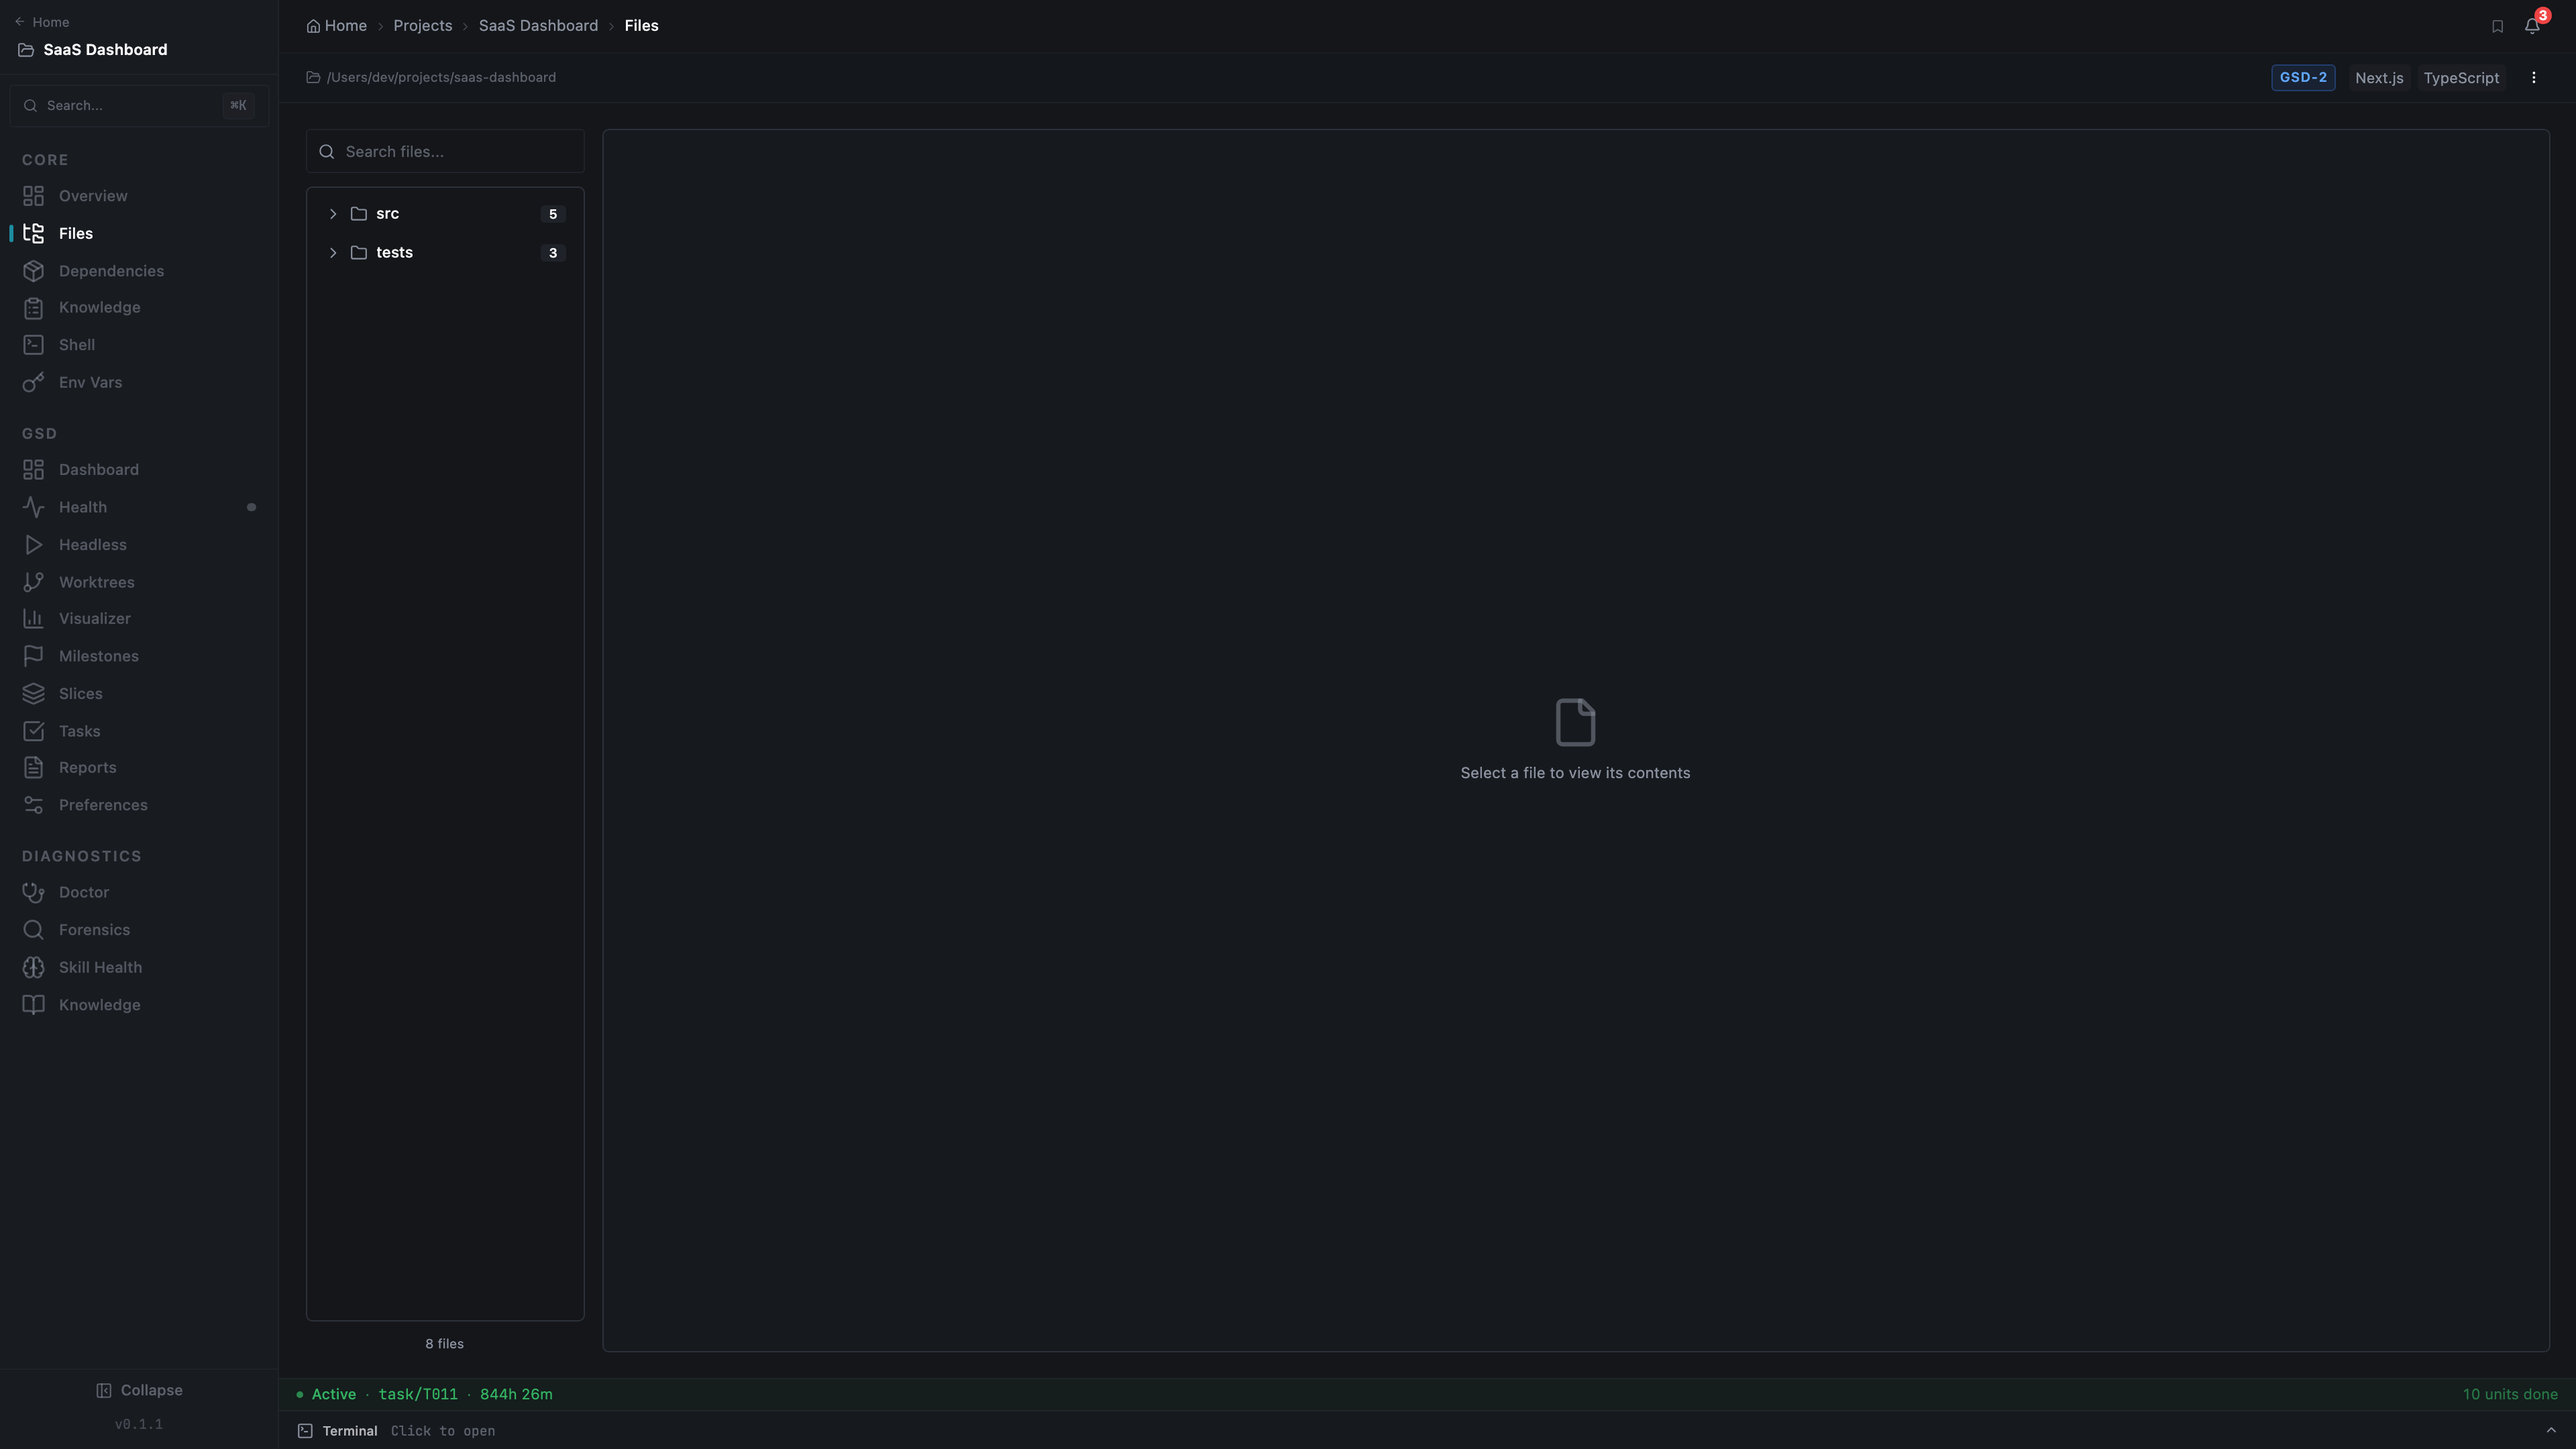
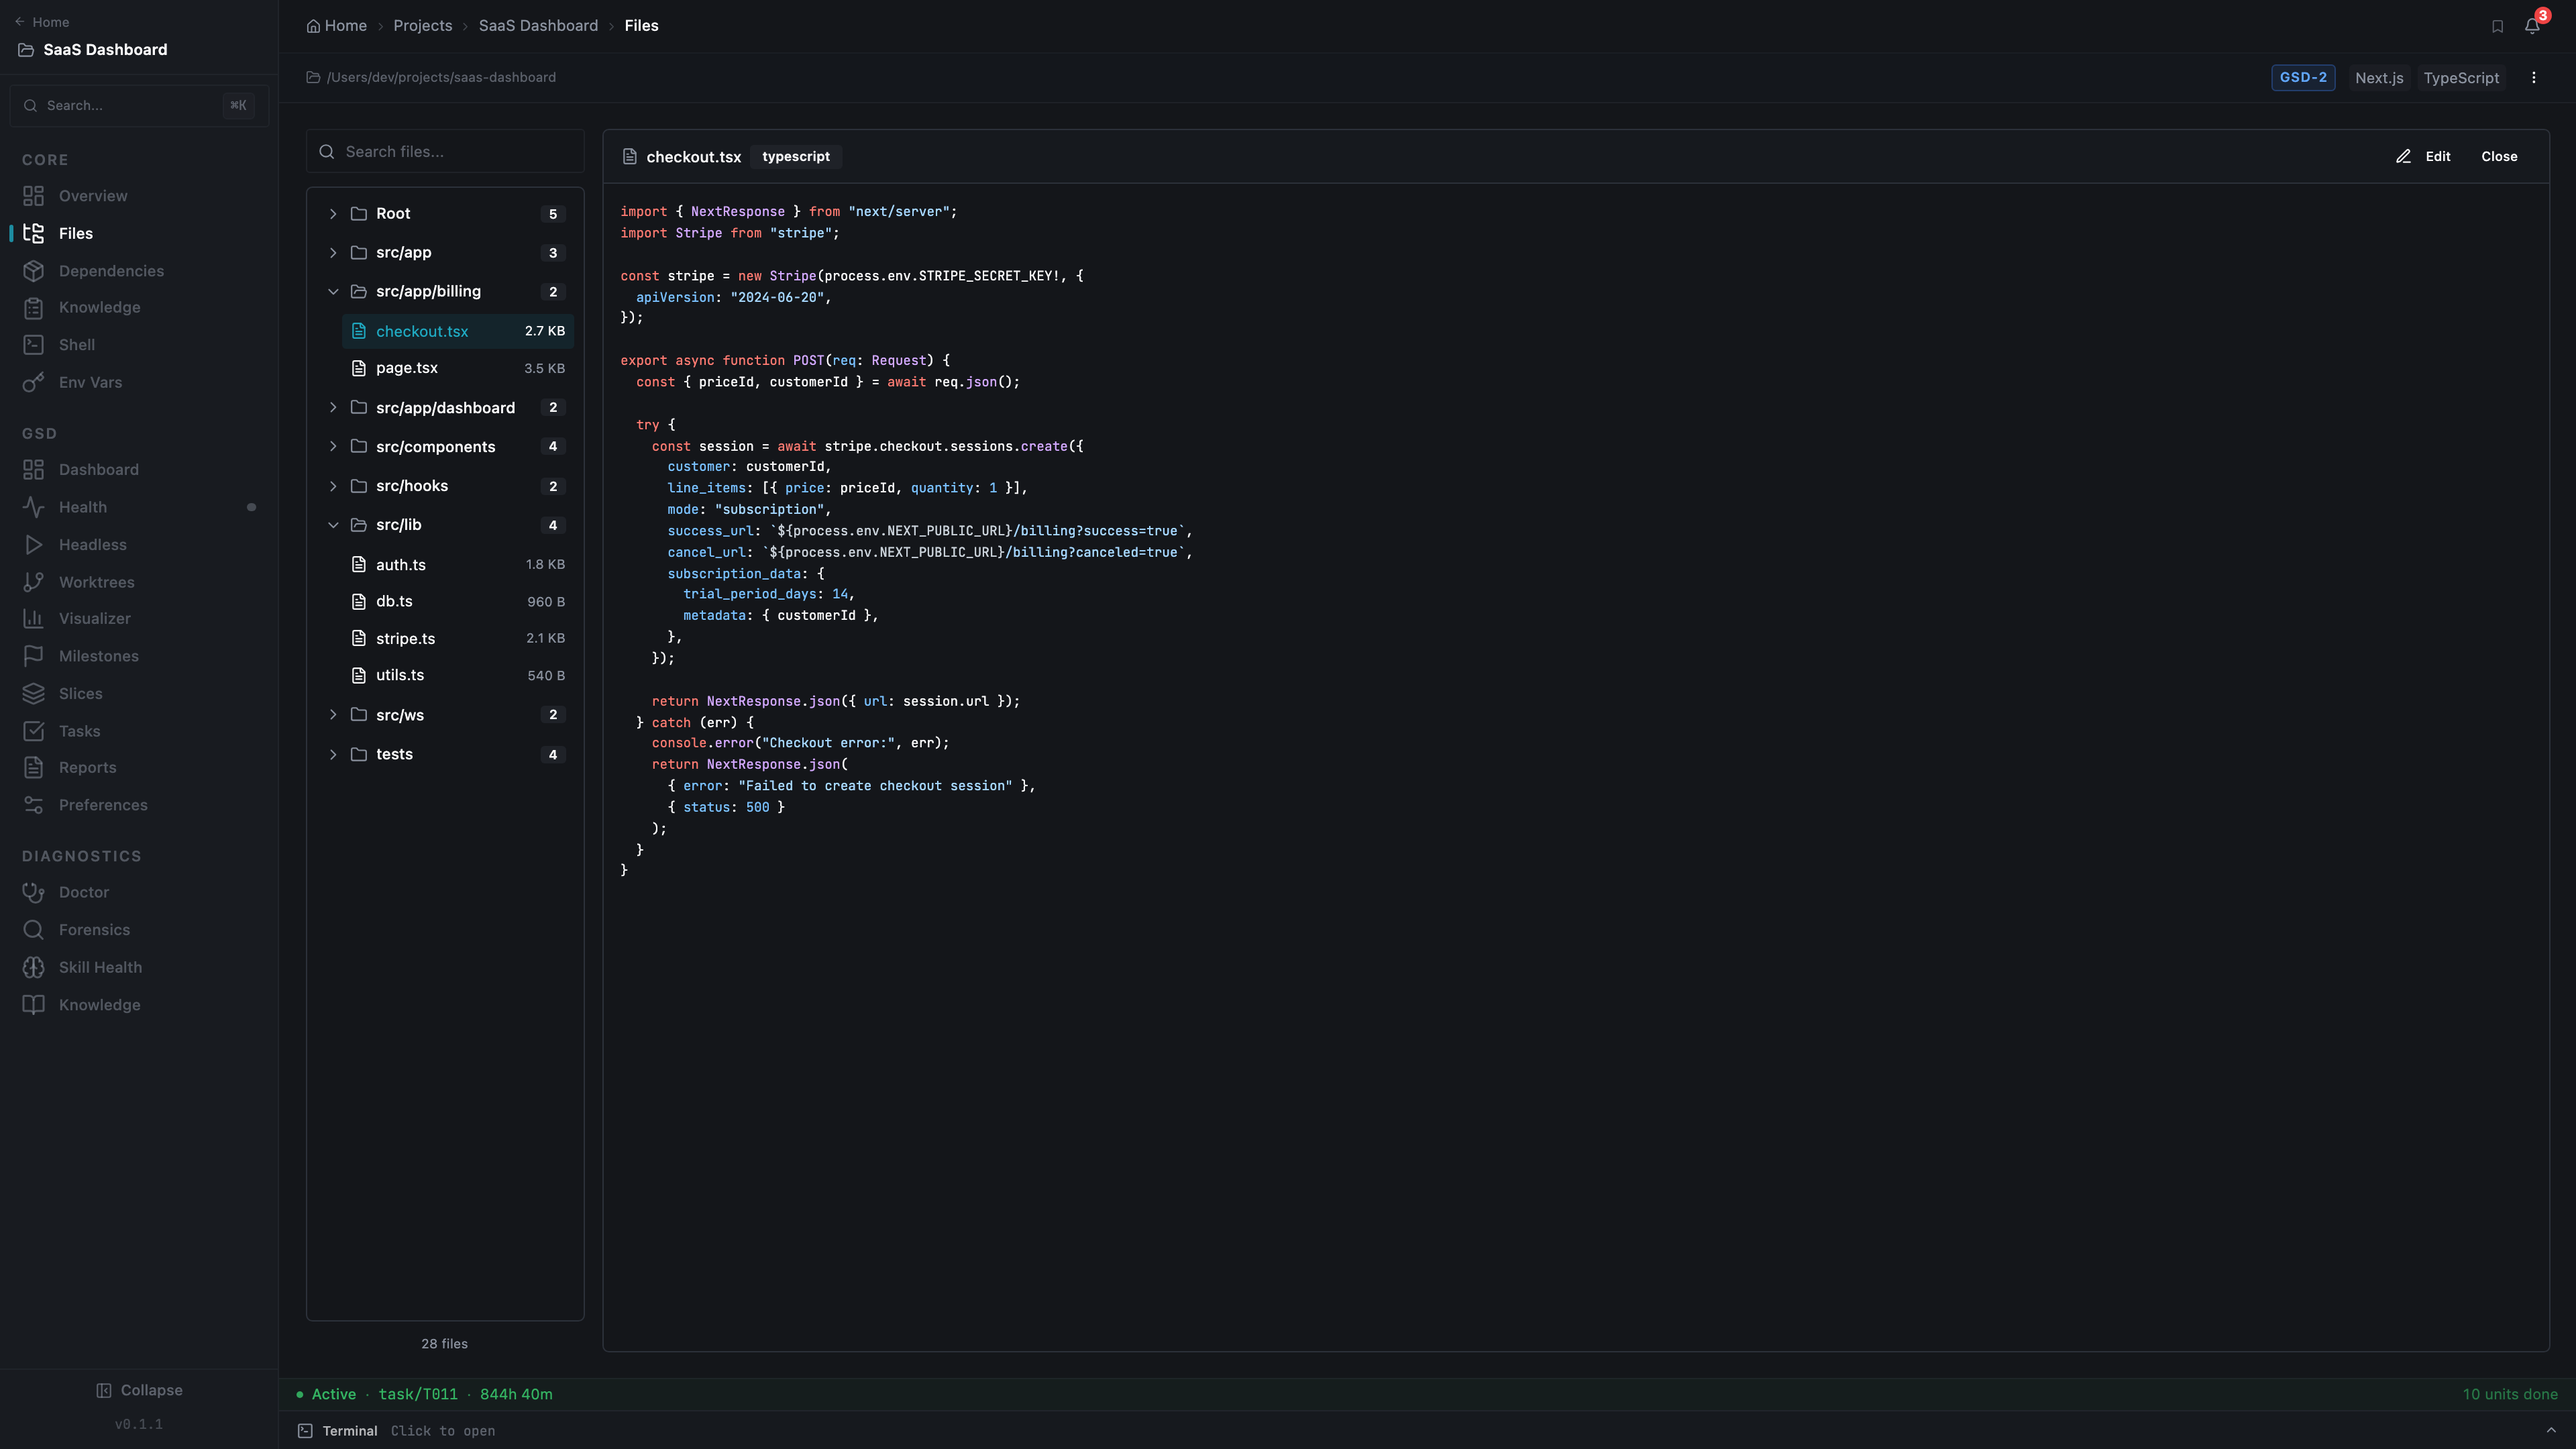
Update settings/file browser screenshots and footer
- File browser: 28 files across 9 folders, checkout.tsx open in syntax-highlighted editor
- Settings: richer defaults with tmux enabled, secrets manager with 3 stored keys
- Footer: remove Flux Labs/copyright, add "Proudly Built with GSD" card linking to gsd.build

diff --git a/e2e/screenshots.spec.ts b/e2e/screenshots.spec.ts
@@ -169,13 +169,13 @@ const MOCK_PROJECTS_WITH_STATS = MOCK_PROJECTS.map((p, i) => ({
 
 const MOCK_SETTINGS = {
   theme: 'dark',
-  start_on_login: false,
-  default_cost_limit: 50.0,
+  start_on_login: true,
+  default_cost_limit: 75.0,
   notifications_enabled: true,
   notify_on_complete: true,
   notify_on_error: true,
-  notify_cost_threshold: 25.0,
-  accent_color: 'blue',
+  notify_cost_threshold: 50.0,
+  accent_color: 'cyan',
   ui_density: 'comfortable',
   font_size_scale: 'medium',
   font_family: 'system',
@@ -184,7 +184,7 @@ const MOCK_SETTINGS = {
   notify_on_phase_complete: true,
   notify_on_cost_warning: true,
   debug_logging: false,
-  use_tmux: false,
+  use_tmux: true,
 };
 
 const MOCK_NOTIFICATIONS = [
@@ -505,19 +505,86 @@ function buildMockScript(): string {
           ]},
         ], total_files: 7 };
         case 'list_code_files': return { folders: [
-          { name: 'src', display_name: 'src', files: [
-            { relative_path: 'src/app/layout.tsx', display_name: 'layout.tsx', folder: 'src', size_bytes: 1200 },
-            { relative_path: 'src/app/page.tsx', display_name: 'page.tsx', folder: 'src', size_bytes: 2400 },
-            { relative_path: 'src/app/dashboard/page.tsx', display_name: 'dashboard/page.tsx', folder: 'src', size_bytes: 4800 },
-            { relative_path: 'src/lib/auth.ts', display_name: 'lib/auth.ts', folder: 'src', size_bytes: 1800 },
-            { relative_path: 'src/lib/stripe.ts', display_name: 'lib/stripe.ts', folder: 'src', size_bytes: 2200 },
+          { name: 'src/app', display_name: 'src/app', files: [
+            { relative_path: 'src/app/layout.tsx', display_name: 'layout.tsx', folder: 'src/app', size_bytes: 1200 },
+            { relative_path: 'src/app/page.tsx', display_name: 'page.tsx', folder: 'src/app', size_bytes: 2400 },
+            { relative_path: 'src/app/globals.css', display_name: 'globals.css', folder: 'src/app', size_bytes: 850 },
+          ]},
+          { name: 'src/app/dashboard', display_name: 'src/app/dashboard', files: [
+            { relative_path: 'src/app/dashboard/page.tsx', display_name: 'page.tsx', folder: 'src/app/dashboard', size_bytes: 4800 },
+            { relative_path: 'src/app/dashboard/loading.tsx', display_name: 'loading.tsx', folder: 'src/app/dashboard', size_bytes: 420 },
+          ]},
+          { name: 'src/app/billing', display_name: 'src/app/billing', files: [
+            { relative_path: 'src/app/billing/page.tsx', display_name: 'page.tsx', folder: 'src/app/billing', size_bytes: 3600 },
+            { relative_path: 'src/app/billing/checkout.tsx', display_name: 'checkout.tsx', folder: 'src/app/billing', size_bytes: 2800 },
+          ]},
+          { name: 'src/components', display_name: 'src/components', files: [
+            { relative_path: 'src/components/metrics-card.tsx', display_name: 'metrics-card.tsx', folder: 'src/components', size_bytes: 1850 },
+            { relative_path: 'src/components/sidebar.tsx', display_name: 'sidebar.tsx', folder: 'src/components', size_bytes: 3200 },
+            { relative_path: 'src/components/chart.tsx', display_name: 'chart.tsx', folder: 'src/components', size_bytes: 2400 },
+            { relative_path: 'src/components/data-table.tsx', display_name: 'data-table.tsx', folder: 'src/components', size_bytes: 4100 },
+          ]},
+          { name: 'src/lib', display_name: 'src/lib', files: [
+            { relative_path: 'src/lib/auth.ts', display_name: 'auth.ts', folder: 'src/lib', size_bytes: 1800 },
+            { relative_path: 'src/lib/stripe.ts', display_name: 'stripe.ts', folder: 'src/lib', size_bytes: 2200 },
+            { relative_path: 'src/lib/db.ts', display_name: 'db.ts', folder: 'src/lib', size_bytes: 960 },
+            { relative_path: 'src/lib/utils.ts', display_name: 'utils.ts', folder: 'src/lib', size_bytes: 540 },
+          ]},
+          { name: 'src/hooks', display_name: 'src/hooks', files: [
+            { relative_path: 'src/hooks/use-metrics.ts', display_name: 'use-metrics.ts', folder: 'src/hooks', size_bytes: 1400 },
+            { relative_path: 'src/hooks/use-auth.ts', display_name: 'use-auth.ts', folder: 'src/hooks', size_bytes: 1100 },
+          ]},
+          { name: 'src/ws', display_name: 'src/ws', files: [
+            { relative_path: 'src/ws/server.ts', display_name: 'server.ts', folder: 'src/ws', size_bytes: 3400 },
+            { relative_path: 'src/ws/client.ts', display_name: 'client.ts', folder: 'src/ws', size_bytes: 2600 },
           ]},
           { name: 'tests', display_name: 'tests', files: [
             { relative_path: 'tests/dashboard.test.tsx', display_name: 'dashboard.test.tsx', folder: 'tests', size_bytes: 3200 },
             { relative_path: 'tests/auth.test.ts', display_name: 'auth.test.ts', folder: 'tests', size_bytes: 2800 },
             { relative_path: 'tests/billing.test.ts', display_name: 'billing.test.ts', folder: 'tests', size_bytes: 3600 },
+            { relative_path: 'tests/ws.test.ts', display_name: 'ws.test.ts', folder: 'tests', size_bytes: 2100 },
           ]},
-        ], total_files: 8 };
+          { name: '.', display_name: 'Root', files: [
+            { relative_path: 'package.json', display_name: 'package.json', folder: '.', size_bytes: 1800 },
+            { relative_path: 'tsconfig.json', display_name: 'tsconfig.json', folder: '.', size_bytes: 620 },
+            { relative_path: 'next.config.js', display_name: 'next.config.js', folder: '.', size_bytes: 480 },
+            { relative_path: 'tailwind.config.ts', display_name: 'tailwind.config.ts', folder: '.', size_bytes: 1200 },
+            { relative_path: '.env.example', display_name: '.env.example', folder: '.', size_bytes: 320 },
+          ]},
+        ], total_files: 28 };
+        case 'read_project_file': return \`import { NextResponse } from "next/server";
+import Stripe from "stripe";
+
+const stripe = new Stripe(process.env.STRIPE_SECRET_KEY!, {
+  apiVersion: "2024-06-20",
+});
+
+export async function POST(req: Request) {
+  const { priceId, customerId } = await req.json();
+
+  try {
+    const session = await stripe.checkout.sessions.create({
+      customer: customerId,
+      line_items: [{ price: priceId, quantity: 1 }],
+      mode: "subscription",
+      success_url: \\\`\\\${process.env.NEXT_PUBLIC_URL}/billing?success=true\\\`,
+      cancel_url: \\\`\\\${process.env.NEXT_PUBLIC_URL}/billing?canceled=true\\\`,
+      subscription_data: {
+        trial_period_days: 14,
+        metadata: { customerId },
+      },
+    });
+
+    return NextResponse.json({ url: session.url });
+  } catch (err) {
+    console.error("Checkout error:", err);
+    return NextResponse.json(
+      { error: "Failed to create checkout session" },
+      { status: 500 }
+    );
+  }
+}
+\`;
         case 'search_knowledge_files': return [];
         case 'get_scanner_summary': return { available: false, overall_grade: null, scan_date: null, categories: [], reports: [], total_gaps: null, total_recommendations: null, overall_score: null, analysis_mode: null, project_phase: null, high_priority_actions: [], source: null };
         case 'get_dependency_status': return { package_manager: 'pnpm', outdated_count: 8, vulnerable_count: 2, details: { outdated: { react: { current: '18.2.0', wanted: '18.3.1', latest: '19.0.0' }, typescript: { current: '5.3.3', wanted: '5.4.5', latest: '5.6.2' }, next: { current: '14.1.0', wanted: '14.2.3', latest: '15.0.0' }, prisma: { current: '5.8.1', wanted: '5.10.2', latest: '5.10.2' }, tailwindcss: { current: '3.4.0', wanted: '3.4.4', latest: '4.0.0' }, recharts: { current: '2.10.3', wanted: '2.12.0', latest: '2.12.0' }, '@stripe/stripe-js': { current: '2.4.0', wanted: '2.5.0', latest: '3.0.0' }, 'socket.io': { current: '4.7.2', wanted: '4.7.5', latest: '4.7.5' } }, audit: { 'lodash.merge': { severity: 'high', title: 'Prototype Pollution', url: 'https://github.com/advisories/GHSA-1234' }, 'semver': { severity: 'moderate', title: 'ReDoS vulnerability', url: 'https://github.com/advisories/GHSA-5678' } } }, checked_at: '2026-02-20T14:00:00' };
@@ -834,7 +901,25 @@ test.describe('Website Screenshots', () => {
   test('Project Detail - Project tab (Files)', async ({ page }) => {
     await page.goto('/projects/proj-001?view=files');
     await page.waitForLoadState('networkidle');
-    await page.waitForTimeout(3000);
+    await page.waitForTimeout(2000);
+    // Expand the src/app/billing folder
+    const billingFolder = page.getByText('src/app/billing');
+    if (await billingFolder.count() > 0) {
+      await billingFolder.click();
+      await page.waitForTimeout(500);
+    }
+    // Also expand src/lib folder
+    const libFolder = page.getByText('src/lib');
+    if (await libFolder.count() > 0) {
+      await libFolder.click();
+      await page.waitForTimeout(500);
+    }
+    // Click on checkout.tsx to open it in editor
+    const fileItem = page.getByText('checkout.tsx');
+    if (await fileItem.count() > 0) {
+      await fileItem.click();
+      await page.waitForTimeout(2000);
+    }
     await page.screenshot({
       path: path.join(SCREENSHOT_DIR, 'project-files.png'),
       fullPage: false,

diff --git a/website/index.html b/website/index.html
@@ -1030,17 +1030,23 @@
   <!-- Footer -->
   <footer class="border-t border-white/[0.08] py-12">
     <div class="max-w-7xl mx-auto px-6">
-      <div class="flex flex-col md:flex-row items-center justify-between gap-6">
-        <div class="flex items-center gap-3">
-          <img src="gsd-logo.svg" alt="GSD Vibe" class="h-5 w-auto opacity-50">
-          <span class="text-sm text-slate-500">GSD Vibe &copy; 2026 Jeremy McSpadden</span>
-        </div>
+      <div class="flex flex-col items-center gap-6">
+        <!-- Proudly Built with GSD -->
+        <a href="https://gsd.build/" class="group flex items-center gap-3 px-6 py-3 rounded-xl bg-white/[0.04] border border-white/[0.1] hover:border-brand-500/30 transition-all hover:shadow-lg hover:shadow-brand-500/5">
+          <img src="gsd-logo.svg" alt="GSD" class="h-7 w-auto opacity-70 group-hover:opacity-100 transition-opacity">
+          <div class="flex flex-col">
+            <span class="text-sm font-semibold text-white">Proudly Built with GSD</span>
+            <span class="text-xs text-slate-500">The AI-native project workflow</span>
+          </div>
+          <svg class="w-4 h-4 text-slate-500 group-hover:text-brand-400 transition-colors ml-2" fill="none" stroke="currentColor" viewBox="0 0 24 24"><path stroke-linecap="round" stroke-linejoin="round" stroke-width="2" d="M10 6H6a2 2 0 00-2 2v10a2 2 0 002 2h10a2 2 0 002-2v-4M14 4h6m0 0v6m0-6L10 14"/></svg>
+        </a>
+        <!-- Links -->
         <div class="flex items-center gap-6 text-sm text-slate-500">
           <a href="https://github.com/jeremymcs/gsd-vibe/" class="hover:text-white transition-colors flex items-center gap-1.5">
             <svg class="w-4 h-4" fill="currentColor" viewBox="0 0 24 24"><path d="M12 0c-6.626 0-12 5.373-12 12 0 5.302 3.438 9.8 8.207 11.387.599.111.793-.261.793-.577v-2.234c-3.338.726-4.033-1.416-4.033-1.416-.546-1.387-1.333-1.756-1.333-1.756-1.089-.745.083-.729.083-.729 1.205.084 1.839 1.237 1.839 1.237 1.07 1.834 2.807 1.304 3.492.997.107-.775.418-1.305.762-1.604-2.665-.305-5.467-1.334-5.467-5.931 0-1.311.469-2.381 1.236-3.221-.124-.303-.535-1.524.117-3.176 0 0 1.008-.322 3.301 1.23.957-.266 1.983-.399 3.003-.404 1.02.005 2.047.138 3.006.404 2.291-1.552 3.297-1.23 3.297-1.23.653 1.653.242 2.874.118 3.176.77.84 1.235 1.911 1.235 3.221 0 4.609-2.807 5.624-5.479 5.921.43.372.823 1.102.823 2.222v3.293c0 .319.192.694.801.576 4.765-1.589 8.199-6.086 8.199-11.386 0-6.627-5.373-12-12-12z"/></svg>
             GitHub
           </a>
-          <a href="https://fluxlabs.net" class="hover:text-white transition-colors">Flux Labs</a>
+          <a href="https://gsd.build/" class="hover:text-white transition-colors">gsd.build</a>
         </div>
       </div>
     </div>
